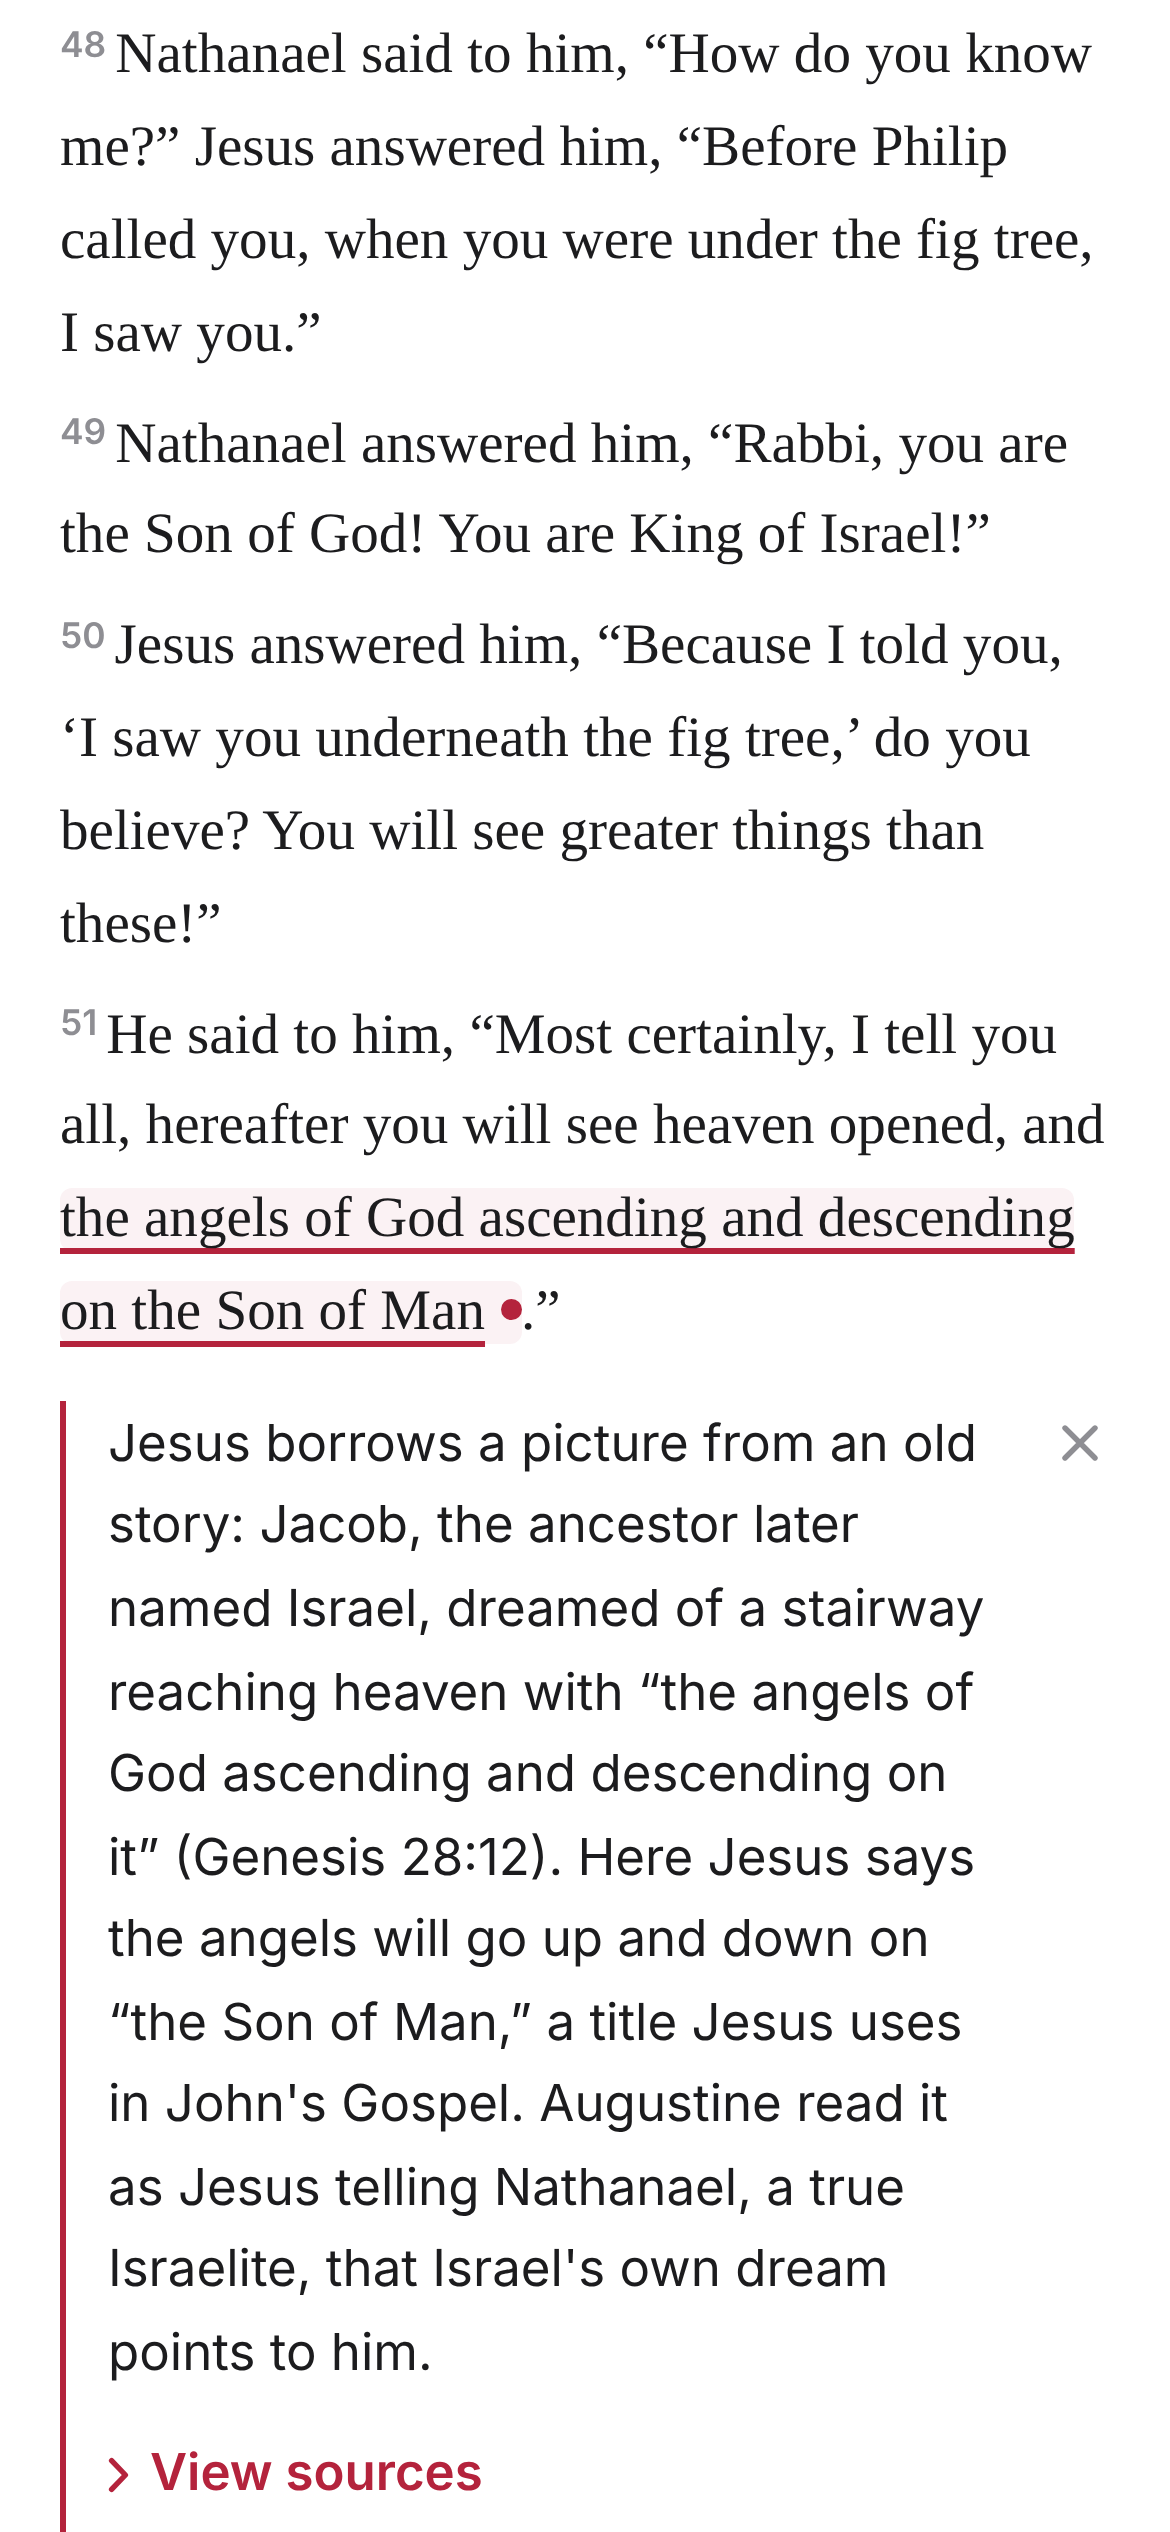
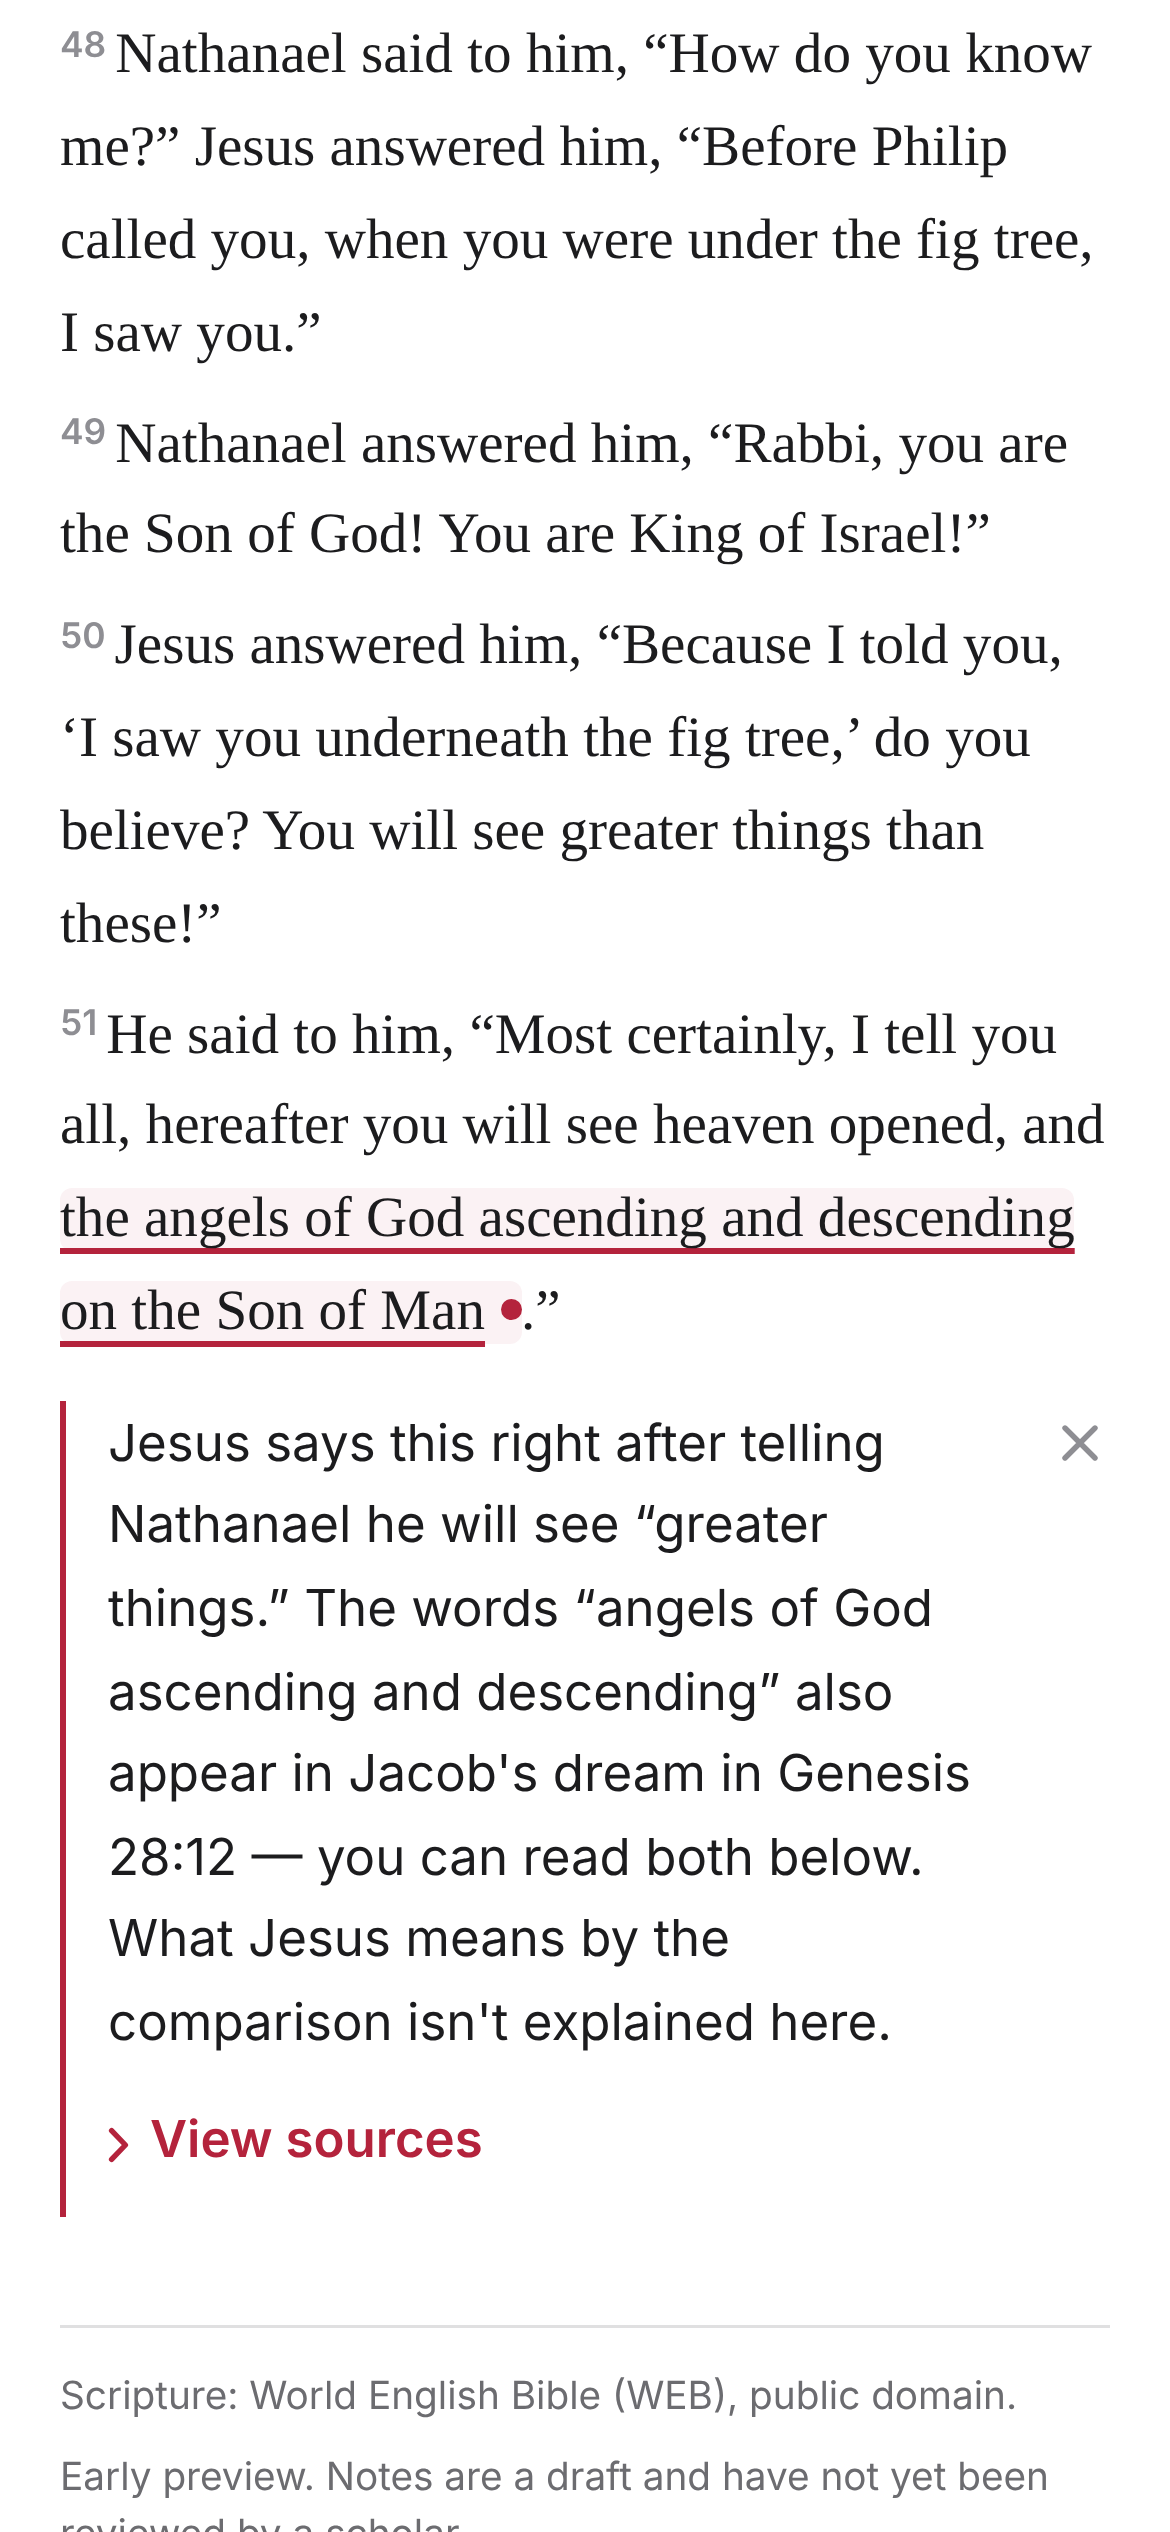
context-bible: 켈러 출처 기준 적용 — 46·47·51 해설 보류(원자료 접속 불가), 화면은 본문 명시 범위만, 교부 출처는 기록에만 보존, Codex 확인 요청
Claude-Session: https://claude.ai/code/session_01GVpU8e9h4SDinNEWWsTM6t

Changed region(s): [[0.0308, 0.5616, 0.8308, 1.0], [0.6154, 0.936, 0.8923, 0.9984]]

diff --git a/docs/context-bible/index.html b/docs/context-bible/index.html
@@ -147,8 +147,7 @@ function render(){
       <div class="passage intro">${verses}</div>
     </main>
     <footer>
-      <p>Commentaries: early Christian writers in public-domain translations, read from the HistoricalChristianFaith Commentaries Database.</p>
-      <p>Scripture: World English Bible (WEB), public domain. Greek and Hebrew checked against the SBL Greek New Testament, the Septuagint (Swete) and the Westminster Leningrad Codex.</p>
+      <p>Scripture: World English Bible (WEB), public domain. </p>
       <p>Early preview. Notes are a draft and have not yet been reviewed by a scholar.</p>
     </footer>`;
   setTimeout(() => app.querySelector('.intro')?.classList.remove('intro'), 3200);
@@ -156,17 +155,15 @@ function render(){
 }
 
 function sourcesHTML(n){
-  const links = n.links.map(l => `
+  // Notes on hold show only Scripture the paragraph cites; interpretation waits for a checked source.
+  const P = n.public;
+  const cites = P.cite.map(ref => `
     <section>
-      <div><span class="ref">${esc(prettyRef(l.ref))}</span> <span class="kind">· ${esc(D.linkKinds[l.kind])}</span></div>
-      <p class="reason">${esc(l.reason)}</p>
-      <div class="excerpt">${expand(l.ref).map(r => `<p><sup>${r.split(':')[1]}</sup> ${markup(D.texts.WEB[r], l.highlight[r])}</p>`).join('')}</div>
+      <div><span class="ref">${esc(prettyRef(ref))}</span> <span class="kind">\u00B7 WEB</span></div>
+      <div class="excerpt">${expand(ref).map(r => `<p><sup>${r.split(':')[1]}</sup> ${markup(D.texts.WEB[r], (n.links.find(l => l.highlight[r]) || {highlight:{}}).highlight[r])}</p>`).join('')}</div>
     </section>`).join('');
-  const orig = n.detail.original.sources ? `Greek/Hebrew: ${n.detail.original.sources.map(esc).join(', ')}. ` : '';
-  return `${links}
-    <section class="limits"><h3>What the text says, and what it doesn’t</h3>${n.limits.map(x => `<p>${esc(x)}</p>`).join('')}</section>
-    <section><h3>Commentaries checked</h3>${n.commentaries.map(c => `<p class="com"><span class="ref">${esc(c.author)}</span>, ${esc(c.work)} — ${esc(c.loc)}. ${esc(c.note)} <a href="${esc(c.url)}" target="_blank" rel="noopener">Read it</a></p>`).join('')}</section>
-    <section><p class="fine">Bible text: WEB, public domain. ${orig}Draft notes, ${esc(n.checked.date)}.</p></section>`;
+  return `${cites}
+    <section><p class="fine">${P.status === 'hold' ? 'This note sticks to what the text says. A fuller explanation is on hold until its sources are checked. ' : ''}Bible text: World English Bible, public domain.</p></section>`;
 }
 
 const verseOf = n => document.getElementById((n.id === D.lead.insight ? 'ctx-' : 'verse-') + n.verse);
@@ -175,7 +172,7 @@ function setSourceHighlight(n, on){
   verseEl.querySelectorAll('mark.hl').forEach(m => m.replaceWith(...m.childNodes));
   verseEl.normalize();
   if (!on) return;
-  const phrases = [...new Set(n.links.flatMap(l => l.highlightSource))];
+  const phrases = n.public.cite.some(c => c.startsWith('Genesis')) ? [...new Set(n.links.flatMap(l => l.highlightSource))] : [];
   phrases.forEach(p => {
     const tw = document.createTreeWalker(verseEl, NodeFilter.SHOW_TEXT); let t;
     while ((t = tw.nextNode())){
@@ -205,7 +202,7 @@ function openNote(id, scroll){
   const n = ins(id);
   document.getElementById('slot-' + id).innerHTML = `
     <div class="note" id="note-${id}" role="region" aria-label="Note on ${esc(n.ref)}">
-      <div class="note-head"><p class="easy">${esc(n.easy)}</p><button class="x" data-close="${id}" aria-label="Close">${XSVG}</button></div>
+      <div class="note-head"><p class="easy">${esc(n.public.text)}</p><button class="x" data-close="${id}" aria-label="Close">${XSVG}</button></div>
       <button class="src-btn" data-src="${id}" aria-expanded="false" aria-controls="src-${id}">${ARROW}<span>View sources</span></button>
       <div class="sources" id="src-${id}" hidden></div>
     </div>`;

diff --git a/context_bible/robot.js b/context_bible/robot.js
@@ -47,8 +47,8 @@ async function run(browser, base, name, opts, shots) {
   ok(leadEasy.length > 80 && leadEasy.length < 560, `[${name}] lead: one short paragraph (${leadEasy.length} chars)`);
   if (shots) { await page.waitForTimeout(400); await page.screenshot({ path: path.join(OUT, `${name}-2-explanation.png`) }); }
   await tapEl('#note-v46 .src-btn'); await page.waitForTimeout(1600);
-  const coms = await page.locator('#src-v46 .com').count(), links = await page.locator('#src-v46 .com a[href^="https://github.com/HistoricalChristianFaith/"]').count();
-  ok(coms >= 2 && links === coms, `[${name}] lead: View sources lists ${coms} checked commentaries, each with a link`);
+  const cited = await page.locator('#src-v46 .excerpt p').count(), coms = await page.locator('#src-v46 .com').count();
+  ok(cited >= 2 && coms === 0, `[${name}] lead: View sources shows the cited verses (${cited}) and no unchecked commentary`);
   if (shots) await page.locator('#note-v46').screenshot({ path: path.join(OUT, `${name}-3-sources.png`) });
   await tapEl('#note-v46 .src-btn');
   ok(await page.locator('#src-v46').isHidden(), `[${name}] lead: Hide sources closes`);
@@ -80,7 +80,7 @@ async function run(browser, base, name, opts, shots) {
     await page.waitForTimeout(1600);
     const box = page.locator(`#src-${id}`);
     const ex = await box.locator('.excerpt p').count(), hl = await box.locator('mark.hl.on').count();
-    ok(await box.isVisible() && ex >= 1 && hl >= 1 && await box.locator('.limits p').count() === 2 && await box.locator('.com a').count() >= 2,
+    ok(await box.isVisible() && ex >= 2 && (id !== 'v51' || hl >= 1) && await box.locator('.com').count() === 0,
       `[${name}] ${id}: View sources shows passages (${ex} verses, ${hl} highlighted) + what the text does/doesn't say`);
     const sw = await page.evaluate(() => document.documentElement.scrollWidth);
     ok(sw <= opts.viewport.width, `[${name}] ${id}: no sideways scroll (${sw})`);

diff --git a/board/context-bible.md b/board/context-bible.md
@@ -2,10 +2,10 @@
 
 ## 🔁 이어받기
 - 마지막 저장: 2026-11-04 (개발 세션) · 작업 브랜치: `claude/context-bible` (main 반영)
-- 방금 끝낸 것: **첫 화면 = 질문 하나**("Why did Nathanael ask if anything good could come from Nazareth?" + 45-46절 → See why → 쉬운 설명 → View sources), 나머지 47·51 은 본문에서 탭. 설명 3개를 **실제로 열어 읽은 초기 주석**(Chrysostom·Augustine·Cyril·Aquinas, HistoricalChristianFaith DB)으로 다시 다듬고 출처(저자·자료·위치·링크)를 View sources 에. 47절 원인 단정 삭제, 야곱-속임은 "one possible reading". 로봇 88/88(실제 터치, 390 라이트·다크 + 데스크톱).
-- 막힌 자료: biblehub·studylight·ccel·netbible·archive.org·sacred-texts·biblestudytools·wikisource·gutenberg·bible.helloao.org 접속 거부 → Westcott·Ellicott·JFB·Meyer·NET 노트는 못 열어서 근거로 안 씀(`context_bible/sources/commentaries.md`). github.com clone·raw.githubusercontent 은 됨.
+- 방금 끝낸 것: **새 출처 기준(팀 켈러 실제 설교·저술만) 적용 → 46·47·51 해설 모두 '보류'**. 이 환경에서 gospelinlife.com·timothykeller.com·YouTube·TGC 가 전부 막혀(웹 검색은 됨, 열기는 DNS 차단) 켈러 원문을 하나도 읽지 못함. 화면은 각 절마다 **본문 명시 범위 한 문단 + View sources(인용 본문만)**. 교부·아퀴나스 출처는 화면에서 빼고 `content` JSON(`heldEarlyCommentaries`)·`sources/commentaries.md` 에 보존. 이전 해설 초안은 `draftBeforeKeller` 에 보존. 로봇 88/88.
 - 진행 중이던 것: 없음
 - 다음 할 일:
+  0. **Codex 가 아래 '🖱 Codex 에게' 를 열어 켈러 원문 대목을 리포에 적어 주면** → 그 대목 범위 안에서만 46(그리고 근거가 있으면 47·51) 해설 재작성, View sources 에 설교 제목·URL·타임스탬프
   1. 사용자 답 2개: "설명이 쉬웠나 / 근거 보기로 충분히 확인됐나"
   2. 막힌 사이트가 열리는 환경이면 Westcott *St John*·NET 노트로 47절 야곱 연결 재확인
   3. 답에 따라 `easy` 문장 다듬기(JSON 만 고치고 `python3 context_bible/build.py` → `node context_bible/robot.js`)
@@ -14,6 +14,13 @@
 - 사용자 대기: 질문 2개 답
 - 공유 표현: "초기 미리보기" (완성 iOS 앱·신학 전문가 검수 완료 아님)
 - 이어받기 문장: `soulfulfillable/test-mvp 의 board/context-bible.md 와 plans/context-bible.md 를 읽고 "다음 할 일"부터 이어서 해줘. CLAUDE.md·DESIGN.md·PLAYBOOK.md 규칙대로. 범위 밖(피드·결제·제출·자동 생성)은 하지 말 것.`
+
+## 🖱 Codex 에게 (브라우저 작업) — 켈러 원자료 확인 (2026-11-04)
+- URL: https://gospelinlife.com/sermons/ → 검색 "Nazareth" (웹 검색으로 확인된 목록: **"Nazareth?!", Timothy J. Keller, Redeemer Presbyterian Church, 2010-12-25, John 1:43-46** — https://gospelinlife.com/book-of-the-bible/john/page/8 에 실려 있다고 검색 결과에 나옴). 같은 사이트에서 "Nathanael", "John 1:47", "John 1:51", "Jacob's ladder" 도 검색
+- 로그인 계정: 필요 없음(무료 설교면). 유료 결제가 필요하면 멈추고 사용자에게 알림 — 구매 금지
+- 할 것: ① 설교 페이지의 정확한 URL ② 원고(transcript)가 있으면 요 1:46(나사렛에서 무슨 선한 것이) 를 다루는 대목 — 문단 첫·끝 문장과 문단 위치, 없으면 오디오 타임스탬프(시작~끝)와 그 구간에서 켈러가 하는 말 2~3줄 요약(긴 원문 복사 금지) ③ 47절(간사함 없는 이스라엘 사람)·51절(천사들이 오르락내리락, 야곱의 사다리)을 다루는 켈러 설교·저서가 있으면 같은 방식으로 ④ 결과를 `context_bible/sources/keller.md` 에 적고 main 에 푸시(또는 이 게시판에 붙여 넣기)
+- 준비된 파일: `context_bible/content/john1_43-51.json`(현재 보류 상태, `sourcePolicy`), `context_bible/sources/commentaries.md`(이전 교부 대조, 새 기준 출처 아님)
+- 확인할 결과: keller.md 에 설교 제목·날짜·URL·위치(문단/타임스탬프)·짧은 요약이 있다. 실제로 듣거나 읽은 대목만.
 
 ## 지금 상태
 - 콘텐츠 수정은 `context_bible/content/*.json` → `python3 context_bible/build.py`(본문·하이라이트·금지어 검사 후 `docs/context-bible/data.json` 생성) → `node context_bible/robot.js`.

diff --git a/PRODUCT.md b/PRODUCT.md
@@ -102,6 +102,7 @@
 
 | 날짜 | 결정 | 이유 |
 |---|---|---|
+| 2026-11-04 | 성경 동반자: 켈러 기준 적용 결과 **46·47·51 해설 모두 보류**(켈러 원자료 접속 불가 — gospelinlife.com 등 차단). 화면은 본문 명시 한 문단 + 인용 본문만. Codex 에게 "Nazareth?!"(2010-12-25, 요 1:43-46) 대목 확인 요청 | 확인 안 된 해석을 켈러 견해로 포장하지 않기 위해 |
 | 2026-11-04 | **성경 동반자 해설 출처 기준 = 팀 켈러의 실제 설교·저술**(개혁주의·장로교 PCA 전통을 편집 방향으로, 공식·공인 앱 아님). 각 주장에 설교/저서 제목·구절·확인 URL·위치(쪽/문단/타임스탬프). 켈러 근거 없는 해석은 보류하거나 본문 명시 범위로 축소, 교부·아퀴나스 자료는 검토 기록으로만 보존. 3개를 억지로 채우지 않음 | 사용자 "팀 켈러 목사님 자료를 기준으로 하고 실제 근거 있는 설명부터 만들게 해 줘. 지금 만든 것도 그 기준으로 다시 봐 주고"(Codex 전달) |
 | 2026-11-04 | **성경 동반자: 첫 화면을 질문 하나로**(요 1:46), 설명 3개는 실제로 열어 읽은 초기 주석(Chrysostom·Augustine·Cyril·Aquinas)만 출처로. 못 연 자료는 근거로 쓰지 않음 | 사용자 "질문 하나로 시작, 주석 근거 제대로 확인해서 쉽게". 46 질문은 사용자 원래 고충(나사렛·베들레헴)과 같고 출처(Chrysostom)가 실제로 있음 |
 | 2026-11-04 | **성경 동반자 시제품 단순화**: 구절 → 쉬운 설명 한 문단 → View sources 하나. 등급 범례·5단계·설교 확인 UI 제거(데이터는 보존) | 사용자 "간단하게 줄여줘" — 핵심은 쉬운 설명과 근거이지 등급 체계 자체가 아님 |

diff --git a/context_bible/sources/commentaries.md b/context_bible/sources/commentaries.md
@@ -1,3 +1,5 @@
+> ⚠ 2026-11-04 사용자 결정으로 해설 출처 기준이 **팀 켈러 실제 설교·저술**로 바뀜. 아래 교부·아퀴나스 자료는 검토 기록으로만 보존하며 새 기준의 승인 출처가 아니다(화면에서 제거).
+
 # 주석 대조 기록 (2026-11-04, 개발 세션) — 실제로 열어 읽은 것만
 
 자료: **HistoricalChristianFaith/Commentaries-Database** (GitHub, 커밋 `9da765b`), 초기 교부·중세 주석의 공개 도메인 영역 번역(NPNF 등)을 절별 TOML 로 모은 것.
@@ -23,3 +25,8 @@
 ## 막힌 자료 (이 환경에서 접속 불가, 2026-11-04)
 biblehub.com, studylight.org, ccel.org, netbible.org, archive.org, sacred-texts.com, biblestudytools.com, preceptaustin.org, en.wikisource.org, gutenberg.org, bible.helloao.org — 전부 연결 거부.
 → Westcott *St John*, Ellicott, JFB, Meyer, NET Bible 노트는 **열어 보지 못했으므로 근거로 쓰지 않음**. GitHub 에서 JFB·Clarke·Gill·Henry 가 든 저장소(SOTW-Historical-Commentaries)는 창세기 일부만 있어 요한복음 없음.
+
+## 켈러 자료 시도 기록 (2026-11-04)
+- 웹 검색으로 확인: gospelinlife.com 목록에 "Nazareth?!"(Timothy J. Keller, Redeemer Presbyterian Church, 2010-12-25, John 1:43-46). **내용은 열어 보지 못함** — 제목·날짜만 아는 상태라 근거로 쓰지 않음.
+- 요 1:47-51 켈러 설교·저술은 검색에서 찾지 못함(다른 목사 설교만).
+- 막힘: gospelinlife.com(WebFetch DNS 차단·curl 연결 거부), timothykeller.com, youtube.com, thegospelcoalition.org.

diff --git a/context_bible/REVIEW.md b/context_bible/REVIEW.md
@@ -62,6 +62,11 @@
 - 51: 야곱의 꿈 연결 = Augustine·Aquinas(✅), 천사 섬김 읽기 = Chrysostom·Cyril(✅).
 - 막힌 자료 목록은 `sources/commentaries.md` 맨 아래. 열어 보지 못한 현대·19세기 주석은 화면·데이터 어디에도 근거로 없음.
 
+## 켈러 기준 재검토 (11-04, 사용자 결정)
+- 46·47·51 모든 해설 문장을 ①본문 명시 ②켈러 실제 해석 ③미확인 연결로 다시 나눔 → ②가 하나도 확인되지 않아(원자료 접속 불가) **세 절 모두 보류**, 화면엔 ①만: 46 "Philip의 말 직후 질문·Come and see·이유는 본문에 없음", 47 "다가올 때 한 말·How do you know me·이유는 본문에 없음", 51 "greater things 직후·창 28:12 와 같은 표현(독자가 두 본문을 직접 비교)·의미 설명은 여기 없음".
+- 화면에서 뺀 것: 교부·아퀴나스 출처, 요 7:41-42·미 5:2·창 27:35·32:28 연결 이유(③), 'one possible reading' 류 해석 문장.
+- 다음: Codex 가 켈러 원문 대목을 확인해 주면 그 범위 안에서만 해설 복원.
+
 ## 남은 한계 (출시 전 사람 검수 필요)
 - 사람(신학 배경) 검수 아직 없음 — 화면 하단에 "draft, not yet checked by a scholar" 표시.
 - 견해 두 개씩은 대표성을 주석서로 확인하지 못했다. 출시 전 공개 도메인 주석(예: 19세기) 또는 사용 허가 받은 현대 주석의 **해당 위치**를 붙이거나, 지금처럼 '읽기'로만 둔다.
